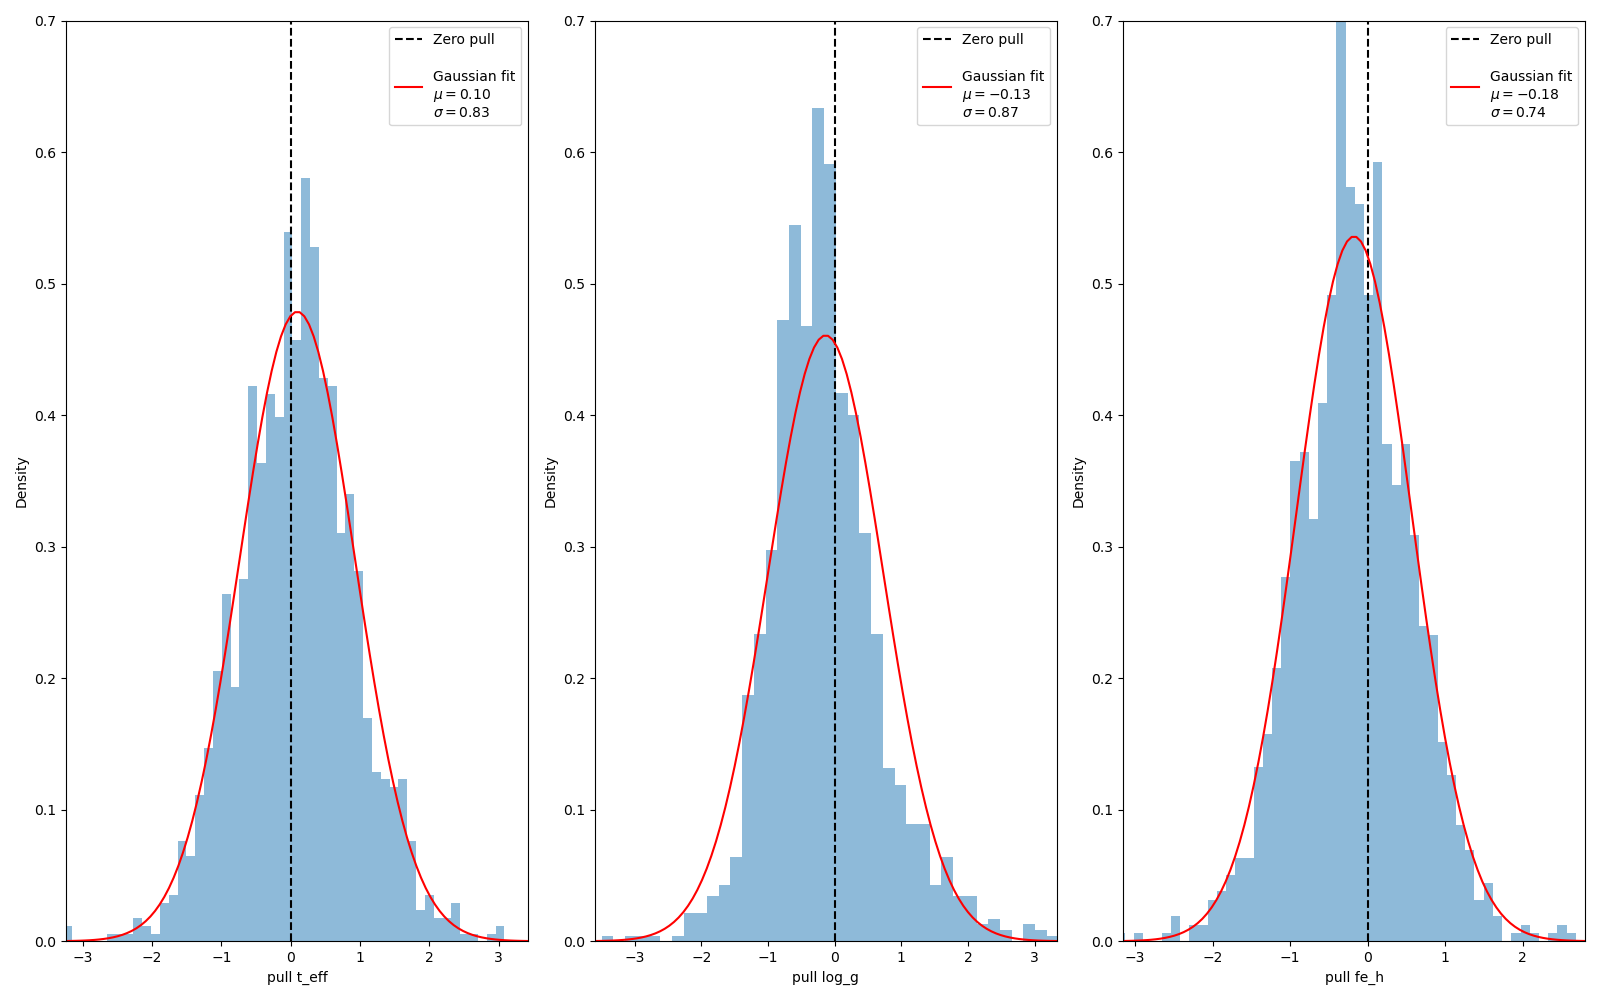
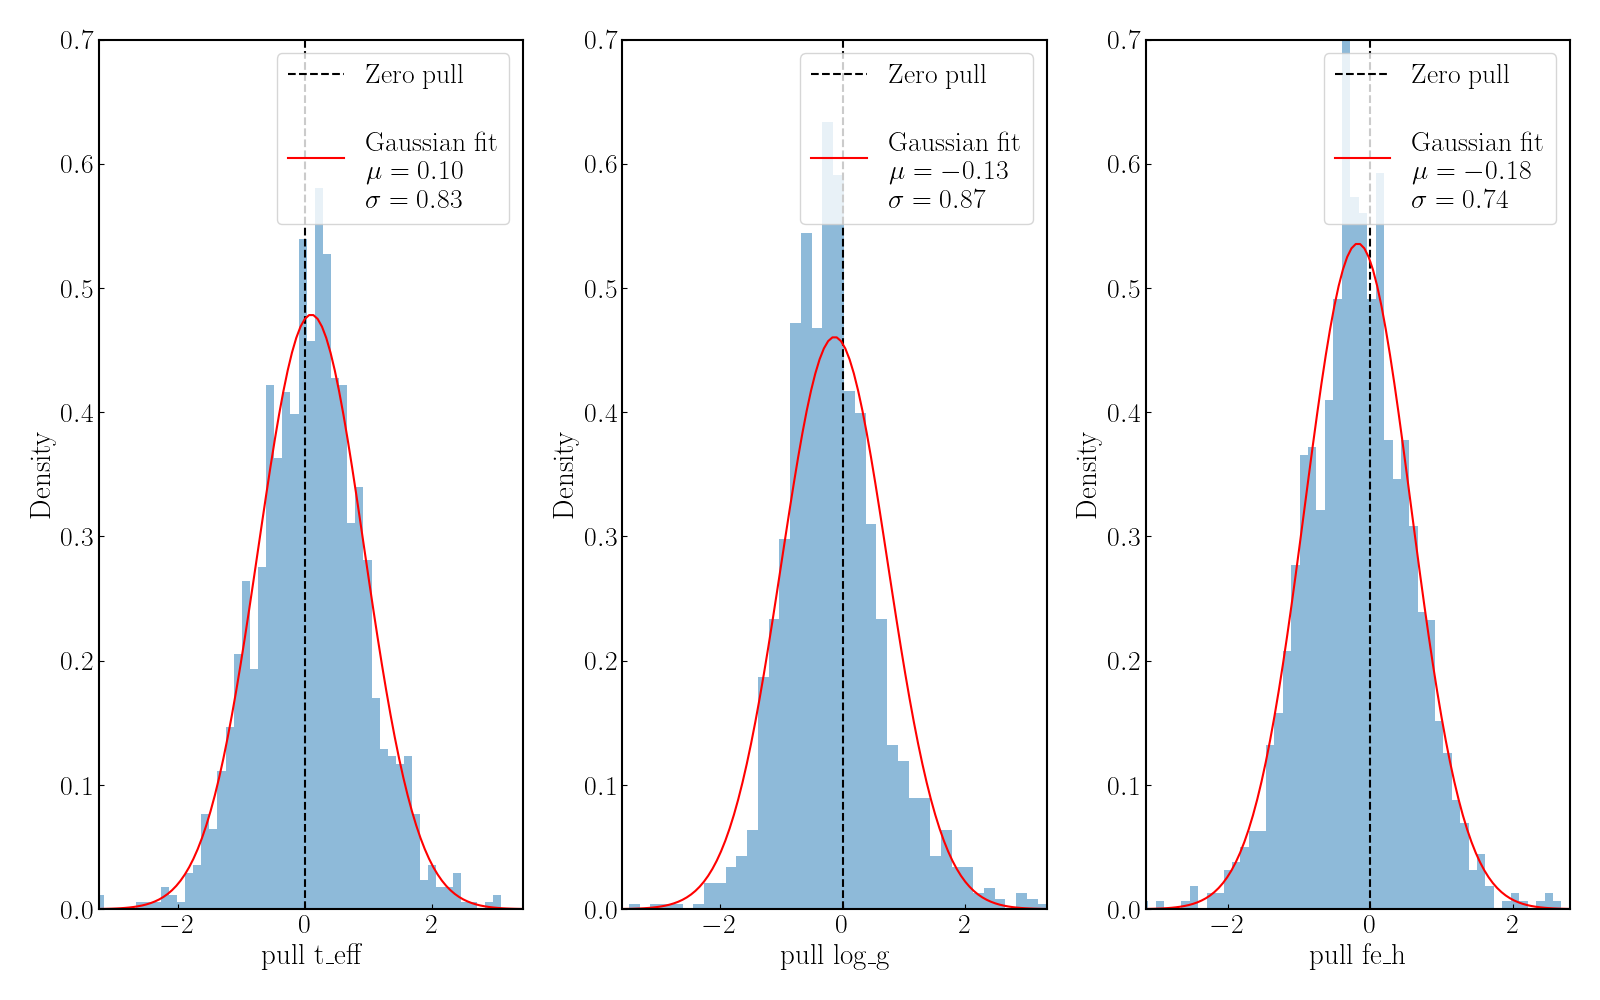
Introduced some styling code into plot_model_predictions.py

diff --git a/Ex2_CNN_ErrorPrediction/plot_model_predictions.py b/Ex2_CNN_ErrorPrediction/plot_model_predictions.py
@@ -5,6 +5,29 @@ import torch
 from torchinfo import summary
 from helper import denormalize, denormalize_std, evaluate_model, loss_function, prepare_data, initialize_model, get_device
 
+# some styling for nice plots
+fig_width_pt=347.5*1.6
+inches_per_pt = 1.0/72.27               # Convert pt to inches
+golden_mean = (np.sqrt(5)-1.0)/(2.0)    # Aesthetic ratio
+fig_width = fig_width_pt*inches_per_pt  # width in inlw=2ches
+fig_height = fig_width*golden_mean      # height in inches
+fig_size = [fig_width,fig_height]
+preamble = r"\usepackage{amsmath}" + "\n" + r"\usepackage{amssymb}" + "\n" + r"\usepackage{siunitx}"
+plt.rcParams['text.latex.preamble']=preamble
+params = {  'text.usetex': True,
+            'font.weight': 'bold',
+            'axes.linewidth' : 1.5,
+            'axes.labelsize': 21,
+            'font.size': 20,
+            'legend.fontsize': 20,
+            'xtick.labelsize': 20,
+            'ytick.direction':'in',
+            'xtick.direction':'in',
+            'ytick.labelsize': 20,
+            'font.family' : 'lmodern',
+            'figure.figsize': fig_size}
+plt.rcParams.update(params)
+
 
 FOLDER_PATH = os.path.dirname(os.path.abspath(__file__))
 DATA_PATH = "/Users/jonathan/Documents/Homeworks_with_Python/Adv. Deep Learning/Ex1_VanillaCNN/data/galah4"
